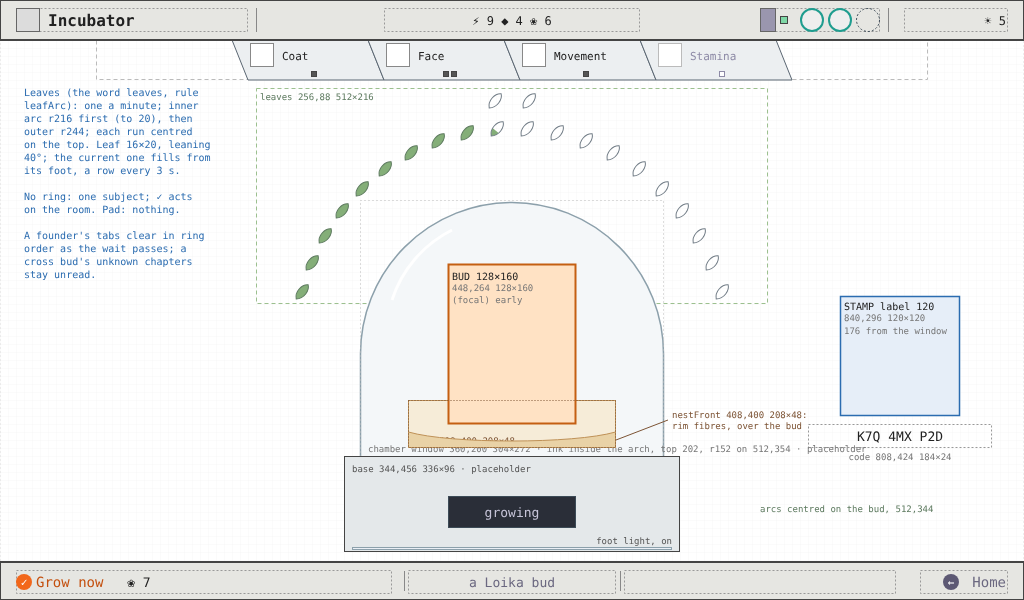
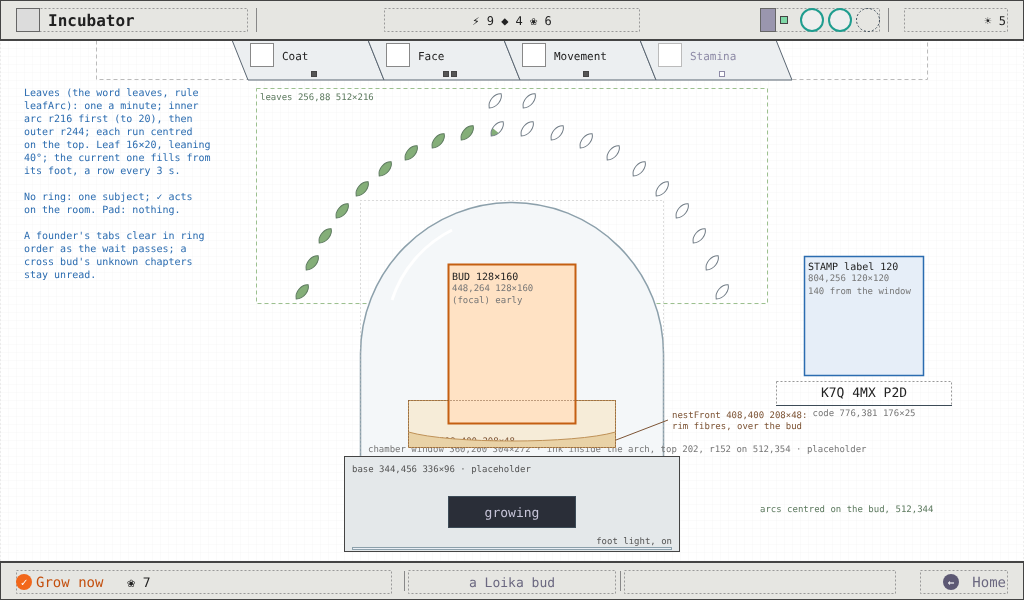
Station stamp, fix 4 layout: one shared label slot (804, 400; code 776, 525) on Pods and Create, the Incubator raised to 804, 256 clear of its cable and gauges, Habitat's card keeps 872, 64; never the brightest element, measured; the case look is the art director's stampCase hook

Changed region(s): [[0.7812, 0.42, 0.9375, 0.78]]

diff --git a/design/style-guide/station-layouts.md b/design/style-guide/station-layouts.md
@@ -274,9 +274,18 @@ Three sizes and no others: **28 px** semibold for names (a pod, a mibi, a specie
 
 ### The stamp label (one rule, every screen that shows it)
 
-- **The label is 120×120**, a bone-coloured plate with a 1 px slate edge, and the stamp is centred on it.
+- **The label is 120×120**, and the stamp is centred on it. Its look (the case: fill, edge, light, glass, and the code's ink and rule) is the art director's hook `stampCase` (`frame.json regions.stampSlot.look`). It is never a white card. Until that look is signed, the specs keep the bone plate with a slate edge as an interim, and no screen that shows the interim passes its gate.
+- **One slot** (UI/UX designer, 2026-10-12 00:02, fix 4 of the Station global fix plan). The label is at (804, 400, 120, 120) on the right column's axis 864. The code's line box is (776, 525, 176, 25), with its baseline at 541 and a 1 px rule at y 549 from x 776 to 952. The label stays in the same place from screen to screen, so it is not noticed fresh on each:
+  | Screen | Label | Code | Why |
+  | --- | --- | --- | --- |
+  | Pods, overview | (804, 400, 120, 120), case (788, 384, 152, 152) | none | the slot; was 872, 400 in the case at 856, 384 |
+  | Create | (804, 400, 120, 120) | (776, 525, 176, 25), baseline 541, rule 549 | the slot, unchanged; `nothingRead` draws no label |
+  | Incubator (growing, ready, hatch) | (804, 256, 120, 120) | (776, 381, 176, 25), baseline 397, rule y 405, x 776 to 952 | raised 144: the stage's painted cable and right gauges fill x 746 to 954, y 414 to 527 (measured on `incubator-empty`). The label takes 804, 400 if the art director's stage clears that band. It was 840, 296, with its code at 808, 424 on the cable |
+  | One mibi up close (Habitat: rest, meet, out) | (872, 64, 120, 120), in the card | the card's own line (608, 160) | the slot would land on the Cross and Wild modules; the rect stays and the look demotes it. No asset: nothing drawn |
+  | Book | (832, 112, 120, 120) | none | the page's label; outside fix 4 |
+- **Never the brightest element.** At 1×, the label rect's mean and its 95th-percentile relative luminance are each below the same measures of the state's main object ([Every state composed](#every-state-composed-one-rule-every-screen)). On main 0a46bf1c the label measured a mean of 59 to 76 % and a p95 of 100 %, against the main object's mean of 20 to 34 % and p95 of 40 to 80 % (Create, Incubator, Pods overview, up close). It was the brightest thing on every one of those screens.
 - **The stamp is drawn on whole-pixel cells.** For a stamp of N modules (N + 2 with its quiet margin), the cell is the largest whole number of pixels that keeps the stamp within 104 px: `cell = floor(104 / (N + 2))`, never less than 2. For example, 21 modules give 23 × 4 = 92 px and 49 modules give 51 × 2 = 102 px.
-- **It is never the focal point.** It sits at the edge of the composition, at least 96 px from the focal box. It never has its own beam, glow, frame or pane, and it is never larger than 120. One exception, on Pods only: the label stands on a small, dim, matte plate in the housing at the right, the label plus 16 px a side; the plate has no light, glow or beam of its own.
+- **It is never the focal point.** It sits at the edge of the composition, at least 96 px from the focal box. It never has its own beam, glow, frame or pane, and it is never larger than 120. On Pods the label stands in its case, the label plus 16 px a side. The case has no light, glow or beam of its own.
 - **It reads fifth or later** on every screen.
 
 ### The chapter rail (Pods, Create, Incubator)
@@ -498,8 +507,8 @@ The player leaves knowing what each pod is, how far it is read, and where someth
 | Where it came from | place picture 600, 120, 64, 64 (`place-<place>-64x64`, a new master painted from the same painting at 64, never scaled); sentence 680, 128, 328, 40 | The origin sentence ([Words on Pods](#words-on-pods)), "Found <where>, <what happened>.", 16 px `bone`, at most two lines; no digits |
 | Kin | rings 56×56 from (600, 224) on a 64 px pitch, at most six; the 40×48 pod in each | The ring is the master `ring-kin-56x56`, placed 1:1; the pod is the 40×48 list class. Same-species pods: the Compare targets; focus targets. None drawn when the pod has no kin |
 | Hatch | 600, 480, 80, 56 | Leaf mark 24×24 centred |
-| Stamp case and front glass | 856, 384, 152, 152 | Small, dim, unlit; the front glass `ground` at 48 % (slice `room-stamp-case-152x152-front`) |
-| **Stamp label** | 872, 400, 120, 120 | Small, at the edge; 544 px from the pod's box. Appears at Identify |
+| Stamp case and front glass | 788, 384, 152, 152 | Small, dim, unlit; the front glass `ground` at 48 % (slice `room-stamp-case-152x152-front`) |
+| **Stamp label** | 804, 400, 120, 120 | Small, on the shared stamp slot (The stamp label); 476 px from the pod's box. Appears at Identify |
 | Ribbon ("New species") | 680, 128, 328, 40 | In the origin sentence's rectangle, 6 s, the read tab's cool look |
 
 **C · Chapter page**
@@ -1387,8 +1396,8 @@ The chamber stands centred and large. The leaves arc over it in two arcs centred
 | Base | 344, 456, 336, 96 | The sand housing, not wood; the chamber stands in it to y 472; the foot light 352, 548, 320, 2; the plaque's plate 448, 496, 128, 32 (the concept's about 328×96 on the grid) |
 | Plaque | 448, 496, 128, 32 | One word, 16 px, centred on x 512, its line box 502 to 522 |
 | Waiting lamp | 652, 506, 12, 12 | On the base, ready and hatch only, while the new mibi's painting has not landed |
-| **Stamp label** | 840, 296, 120, 120 | 176 px from the chamber window |
-| Code | 808, 424, 184, 24 | 16 px, centred on x 900, line box 426 to 446; three groups with spaces ("K7Q 4MX P2D"), the widest 152 px |
+| **Stamp label** | 804, 256, 120, 120 | 140 px from the chamber window; the shared slot raised clear of the cable and gauges (The stamp label) |
+| Code | 776, 381, 176, 25 | 16 px, centred on x 864, line box 381 to 405, baseline 397, a 1 px rule at y 405 from x 776 to 952 (the shared slot, as Create); three groups with spaces ("K7Q 4MX P2D"), the widest 152 px |
 | Hatch ribbon | 312, 104, 400, 40 | The new mibi's words, 20 px, hatch only |
 | Juvenile, after Open | 360, 160, 304, 312 | Its feet on the base's top at y 472, reading young by proportion inside the box; 304×312 is the size of one mibi up close's mibi, where the hand-off lands it ([the hand-off](#the-incubators-events-the-hatch-and-the-hand-off)), so it reads as the same creature |
 
@@ -1406,8 +1415,8 @@ The chamber stands centred and large. The leaves arc over it in two arcs centred
 | `domeFront` | 360, 200, 304, 272 | living window, part frame | | the clean window, no highlight; lit (ready) |
 | `base` | 344, 456, 336, 96 | living window, part frame | | the foot light, always on; the waiting lamp |
 | `plaque` | 448, 496, 128, 32 | text | | empty, growing, ready; blank in the hatch |
-| `stamp` | 840, 296, 120, 120 | stamp label | growing, ready, hatch | its chapters filling as they clear |
-| `code` | 808, 424, 184, 24 | text | growing, ready, hatch | — |
+| `stamp` | 804, 256, 120, 120 | stamp label | growing, ready, hatch | its chapters filling as they clear |
+| `code` | 776, 381, 176, 25 | text | growing, ready, hatch | — |
 | `ribbon` | 312, 104, 400, 40 | ribbon | hatch | — |
 | `juvenile` | 360, 160, 304, 312 | specimen | hatch | its painting, else its signed juvenile stand-in; the step lift |
 
